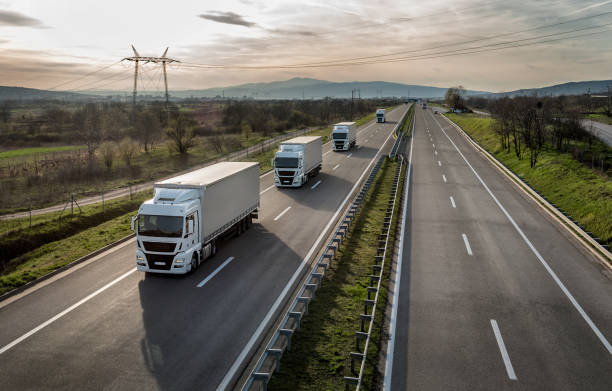
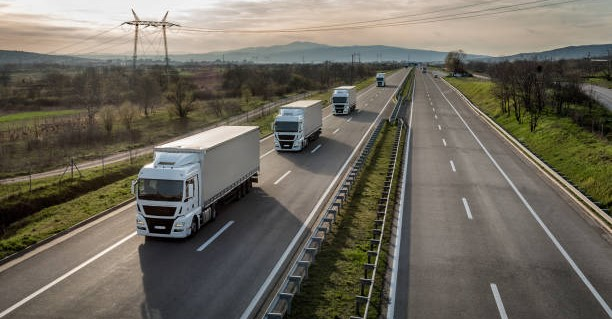
slider size 1.0.2

diff --git a/style.css b/style.css
@@ -525,8 +525,8 @@ border-bottom:5px solid #83013b;
       .slider2 .element1 {
           background:
               linear-gradient(rgba(0,0,0,0.3), rgba(0,0,0,0.5)),
-              url(img/istockphoto-1166212575-612x612.jpg);
-          background-size: cover;
+              url(img/istockphoto-946210052-612x612.jpg);
+              background-size: contain;
           background-position: center center;
           background-attachment: fixed;
       }
@@ -534,7 +534,7 @@ border-bottom:5px solid #83013b;
         background:
             linear-gradient(rgba(0,0,0,0.3), rgba(0,0,0,0.5)),
             url(img/istockphoto-1222996465-612x612.jpg);
-        background-size: cover;
+            background-size: contain;  
         background-position: center center;
         background-attachment: fixed;
     }
@@ -542,7 +542,7 @@ border-bottom:5px solid #83013b;
       background:
           linear-gradient(rgba(0,0,0,0.3), rgba(0,0,0,0.5)),
           url(img/istockphoto-146914566-612x612.jpg);
-      background-size: cover;
+      background-size: contain;
       background-position: center center;
       background-attachment: fixed;
   }
